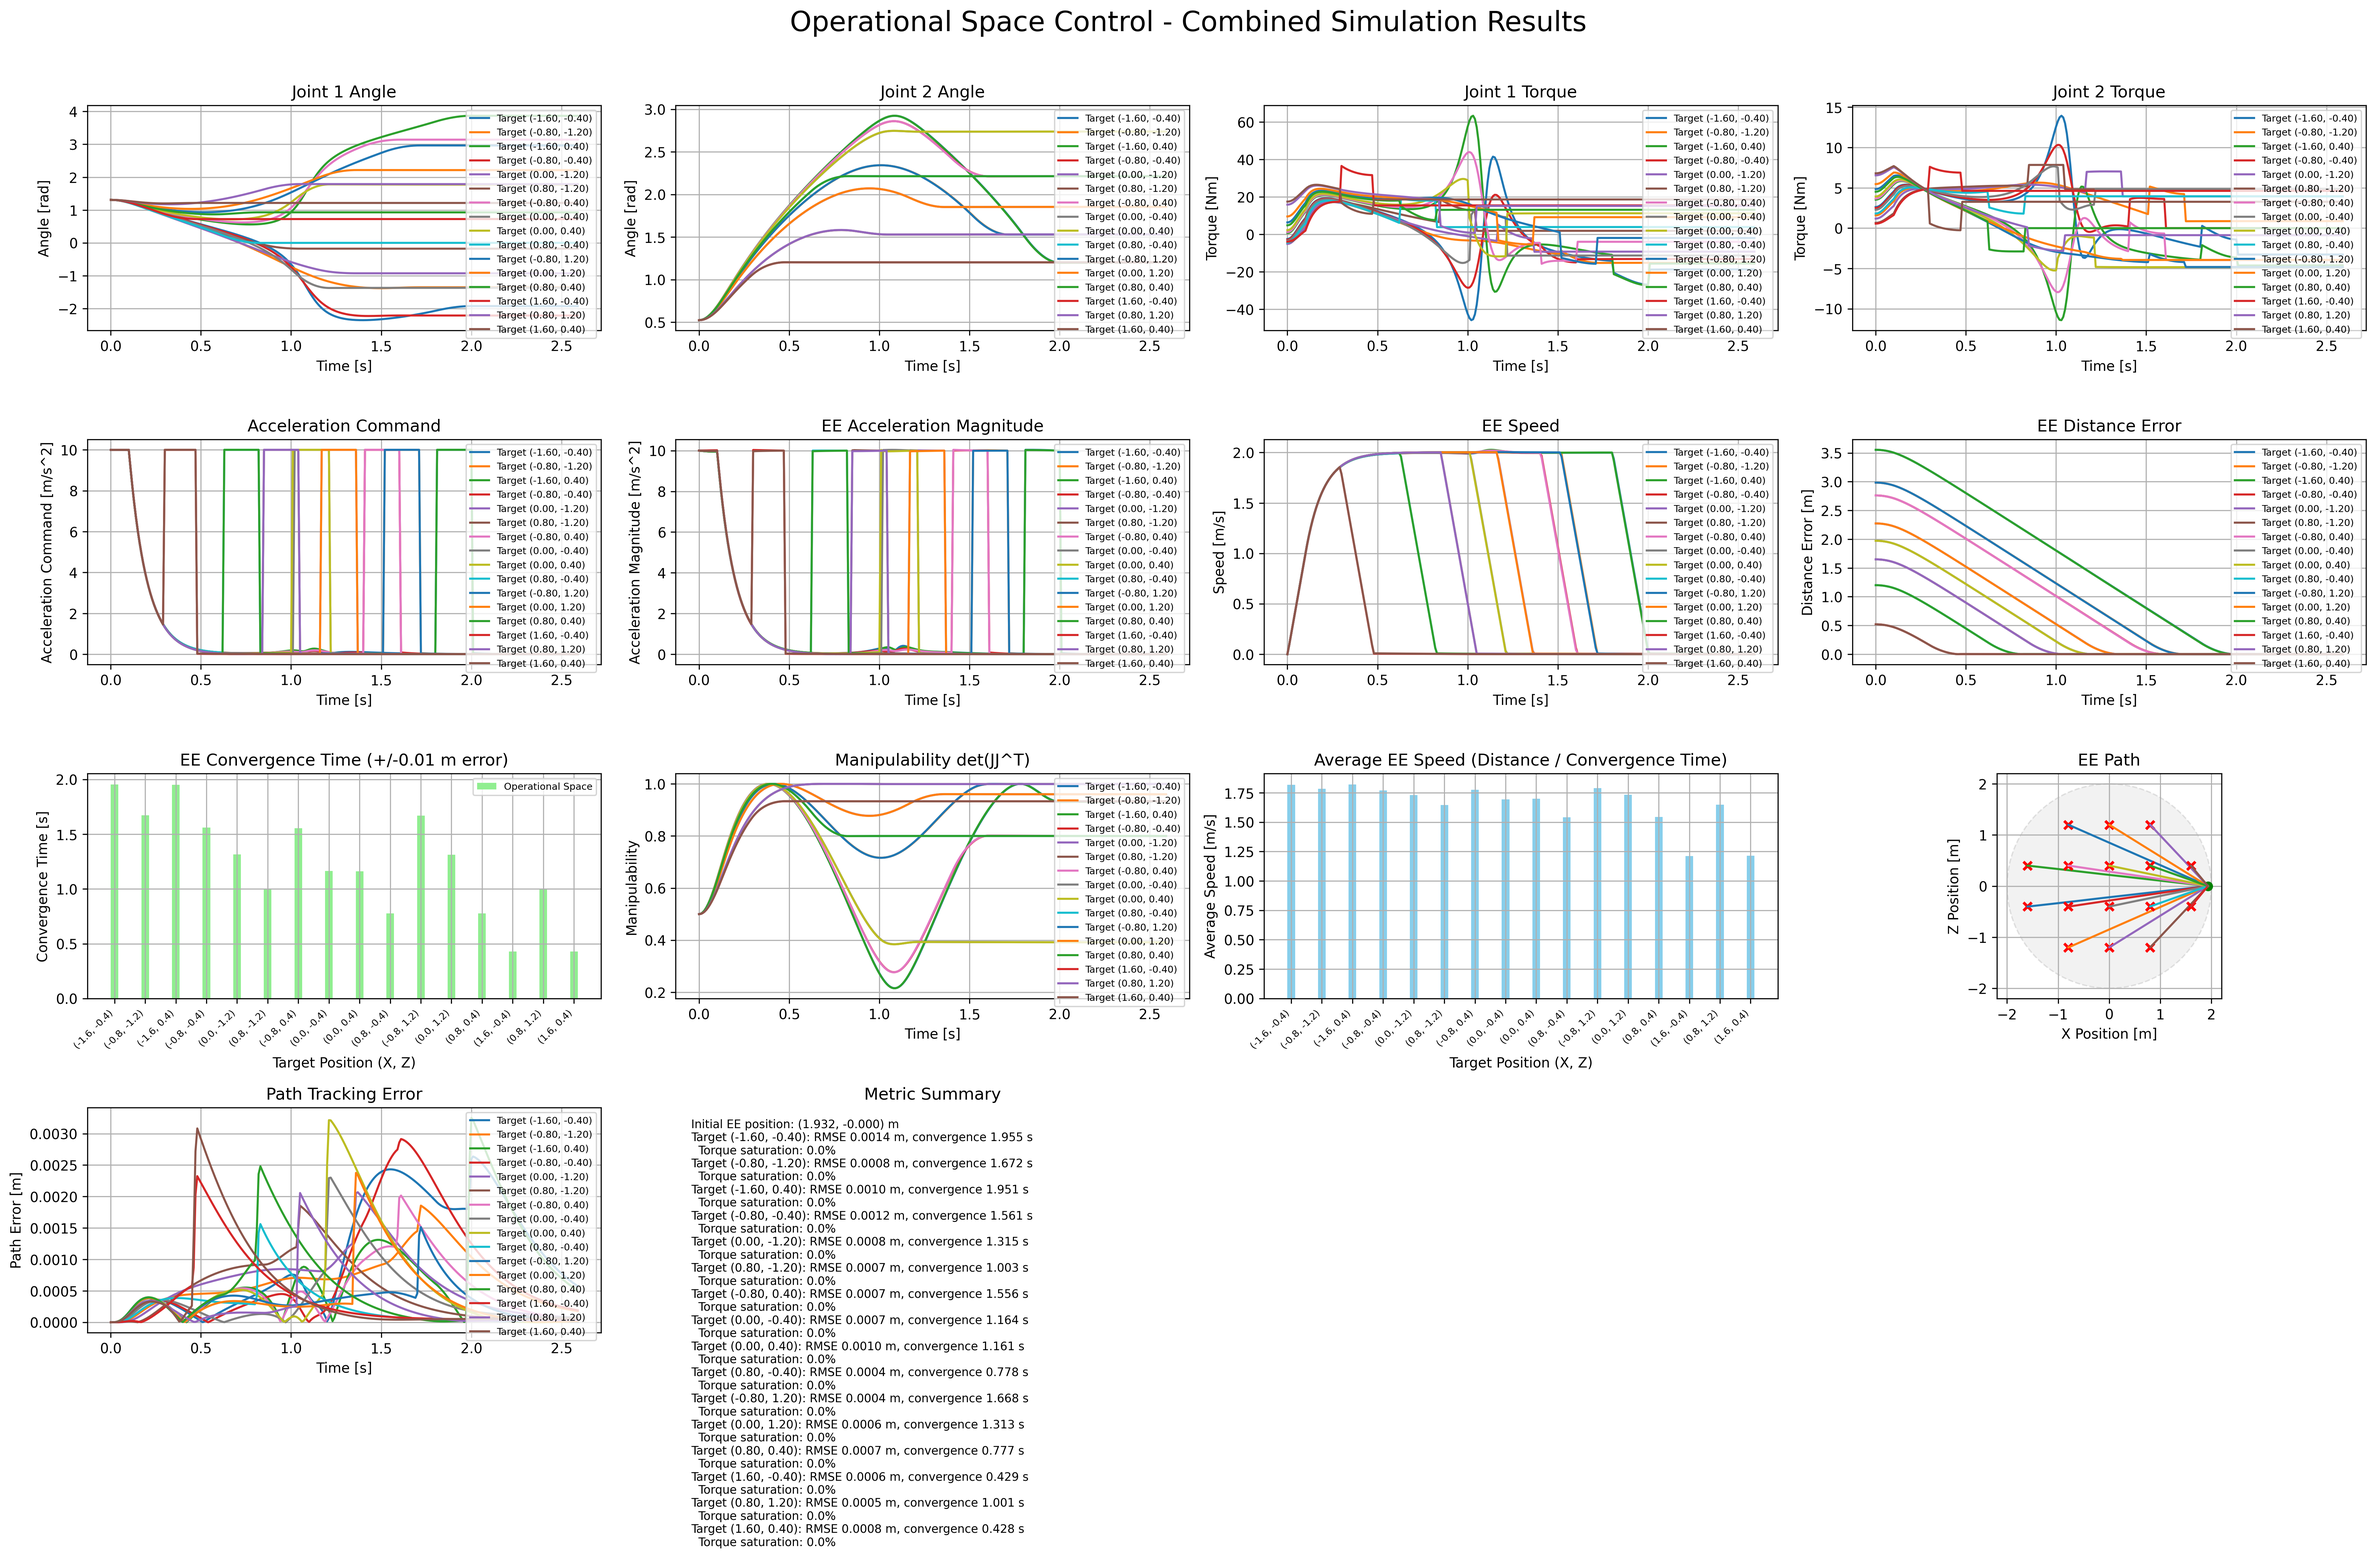
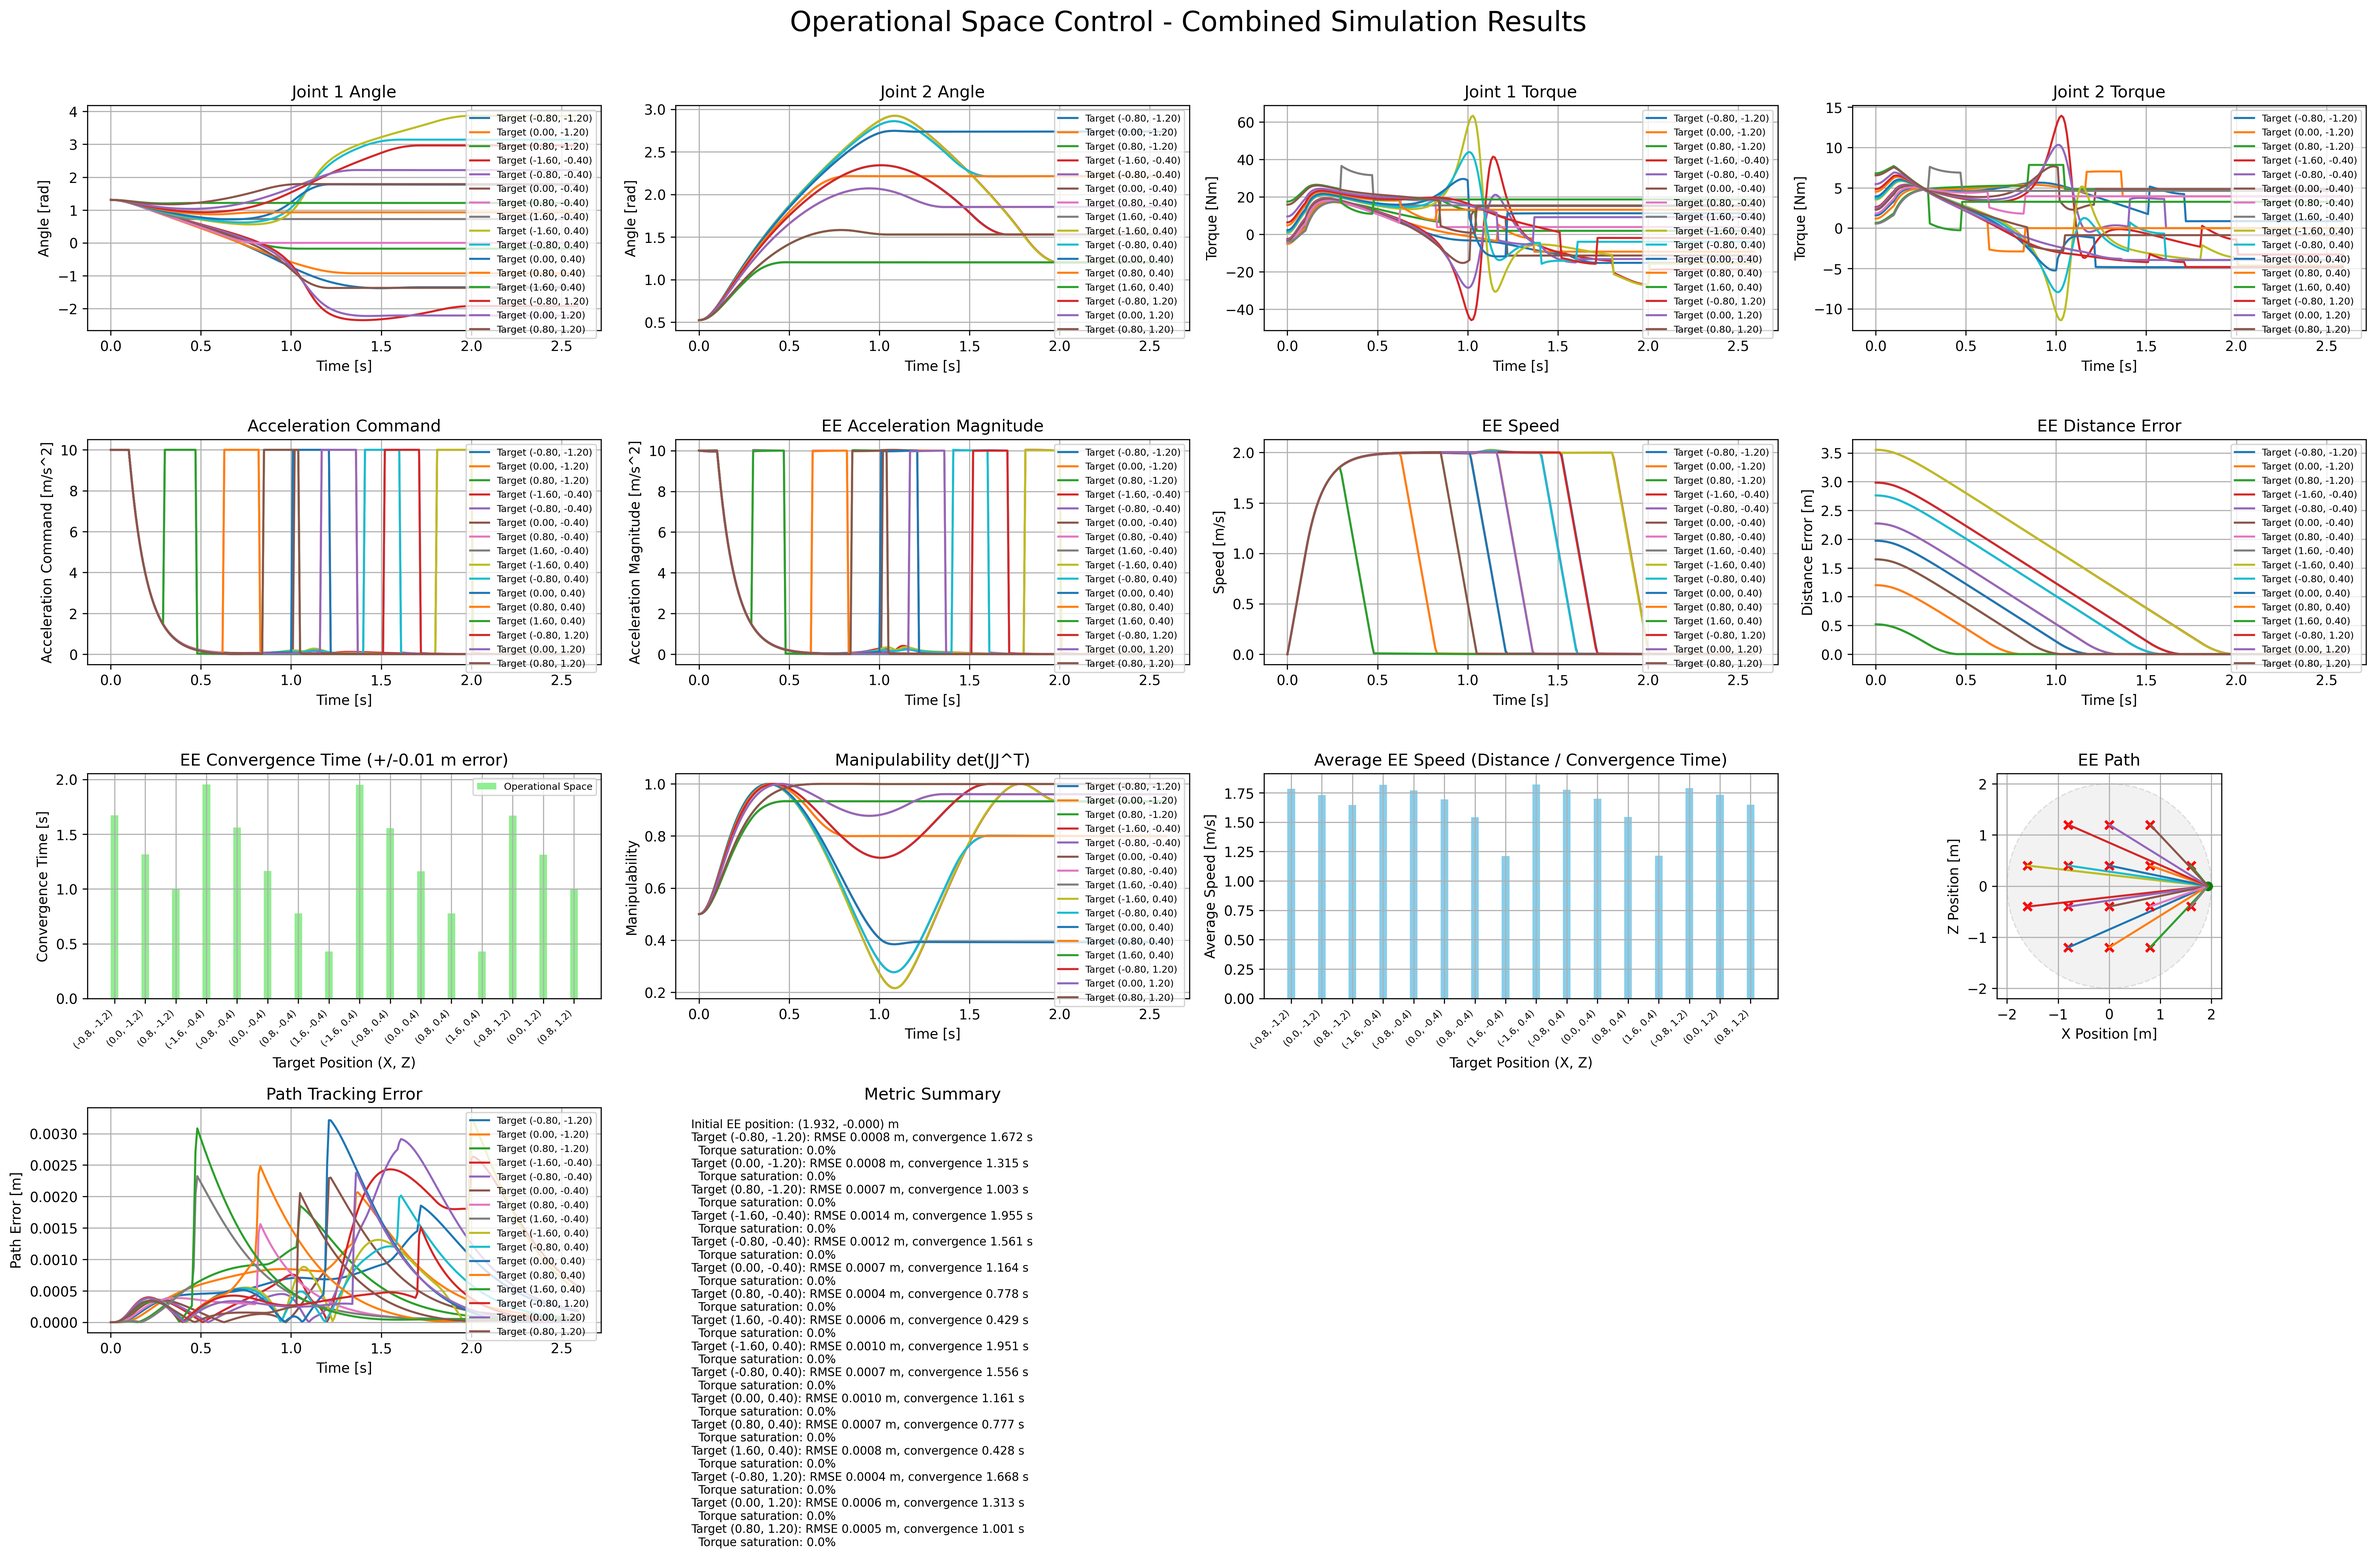
fix(gif): preserve simulation speed at 30 FPS and refresh results

diff --git a/experiment/gif_generation.py b/experiment/gif_generation.py
@@ -7,6 +7,8 @@ import numpy as np
 
 from src.robot.arm_2dof.kinematics import get_end_effector_position
 
+GIF_FPS = 30
+
 
 def plot_robot_arm(
     ax,
@@ -83,7 +85,6 @@ def generate_robot_arm_full_trajectory_gif(
     concatenated_q2_log,
     sim_params,
     output_gif_filename="robot_arm_full_trajectory.gif",
-    desired_total_gif_frames=200,
     full_desired_path_x=None,
     full_desired_path_z=None,
     target_trajectory_x=None,
@@ -96,23 +97,20 @@ def generate_robot_arm_full_trajectory_gif(
     frame_dir = tempfile.TemporaryDirectory()
     fig, ax = plt.subplots(figsize=(8, 8))
 
-    frame_interval = max(1, total_sim_steps_for_gif // desired_total_gif_frames)
-
     simulation_real_duration = total_sim_steps_for_gif * sim_params.dt
-    actual_num_gif_frames = len(concatenated_q1_log[::frame_interval])
+    frame_count = int(np.ceil(simulation_real_duration * GIF_FPS))
+    frame_indices = np.minimum(
+        np.rint(np.arange(frame_count) / GIF_FPS / sim_params.dt).astype(int),
+        total_sim_steps_for_gif - 1,
+    )
 
-    if simulation_real_duration > 0 and actual_num_gif_frames > 0:
-        fps = actual_num_gif_frames / simulation_real_duration
-    else:
-        fps = 60  # Default FPS if calculation is not possible
-
-    print(f"Generating GIF frames... Total {actual_num_gif_frames} frames with {fps:.2f} FPS for real-time playback.")
+    print(f"Generating GIF frames... Total {len(frame_indices)} frames with {GIF_FPS} FPS for real-time playback.")
 
     # Initialize lists to store the end-effector trajectory history
     ee_x_history = []
     ee_z_history = []
 
-    for i in range(0, total_sim_steps_for_gif, frame_interval):
+    for frame_number, i in enumerate(frame_indices):
         q1 = concatenated_q1_log[i]
         q2 = concatenated_q2_log[i]
 
@@ -157,11 +155,11 @@ def generate_robot_arm_full_trajectory_gif(
         else:
             ax.set_title(f"Robot Arm Simulation (Time: {i * sim_params.dt:.2f}s)")
 
-        frame_filename = os.path.join(frame_dir.name, f"frame_{i:04d}.png")
+        frame_filename = os.path.join(frame_dir.name, f"frame_{frame_number:04d}.png")
         plt.savefig(frame_filename)
         frame_filenames.append(frame_filename)
 
-    with imageio.get_writer(output_gif_filename, mode="I", duration=1000 / fps) as writer:
+    with imageio.get_writer(output_gif_filename, mode="I", duration=1000 / GIF_FPS) as writer:
         for filename in frame_filenames:
             image = imageio.imread(filename)
             writer.append_data(image)

diff --git a/experiment/results/update_results.py b/experiment/results/update_results.py
@@ -6,9 +6,9 @@ EXPERIMENT_ROOT = PROJECT_ROOT / "experiment"
 RESULTS_ROOT = EXPERIMENT_ROOT / "results"
 
 PATH_GIFS = {
-    "LinePath": "robot_arm_full_trajectory.gif",
-    "CirclePath": "robot_arm_circular_path.gif",
-    "PolygonPath": "robot_arm_polygonal_path.gif",
+    "LinePath": "line_path.gif",
+    "CirclePath": "circle_path.gif",
+    "PolygonPath": "polygon_path.gif",
 }
 
 
@@ -31,7 +31,7 @@ def update_results() -> None:
         destination.mkdir(parents=True, exist_ok=True)
 
         plot = latest / "figures" / "combined_figures.png"
-        gif = RESULTS_ROOT / gif_name
+        gif = latest / "gif" / gif_name
 
         for source, output_name in (
             (plot, "combined_figures.png"),

diff --git a/experiment/LinePath/simulation.py b/experiment/LinePath/simulation.py
@@ -143,7 +143,6 @@ def generate_GIF(
             concatenated_q2_log,
             sim_params,
             output_gif_filename=gif_dir / "line_path.gif",
-            desired_total_gif_frames=200,
             target_trajectory_x=concatenated_target_x_log,
             target_trajectory_z=concatenated_target_z_log,
         )

diff --git a/experiment/PolygonPath/simulation.py b/experiment/PolygonPath/simulation.py
@@ -146,7 +146,6 @@ def generate_GIF(
             q2_log_polygon,
             sim_params,
             output_gif_filename=gif_dir / "polygon_path.gif",
-            desired_total_gif_frames=200,
             full_desired_path_x=desired_polygon_path_x_gif,
             full_desired_path_z=desired_polygon_path_z_gif,
         )

diff --git a/experiment/CirclePath/simulation.py b/experiment/CirclePath/simulation.py
@@ -98,7 +98,6 @@ def generate_GIF(
             q2_log_circular,
             sim_params,
             output_gif_filename=gif_dir / "circle_path.gif",
-            desired_total_gif_frames=200,
             full_desired_path_x=full_circular_path_x,
             full_desired_path_z=full_circular_path_z,
         )
